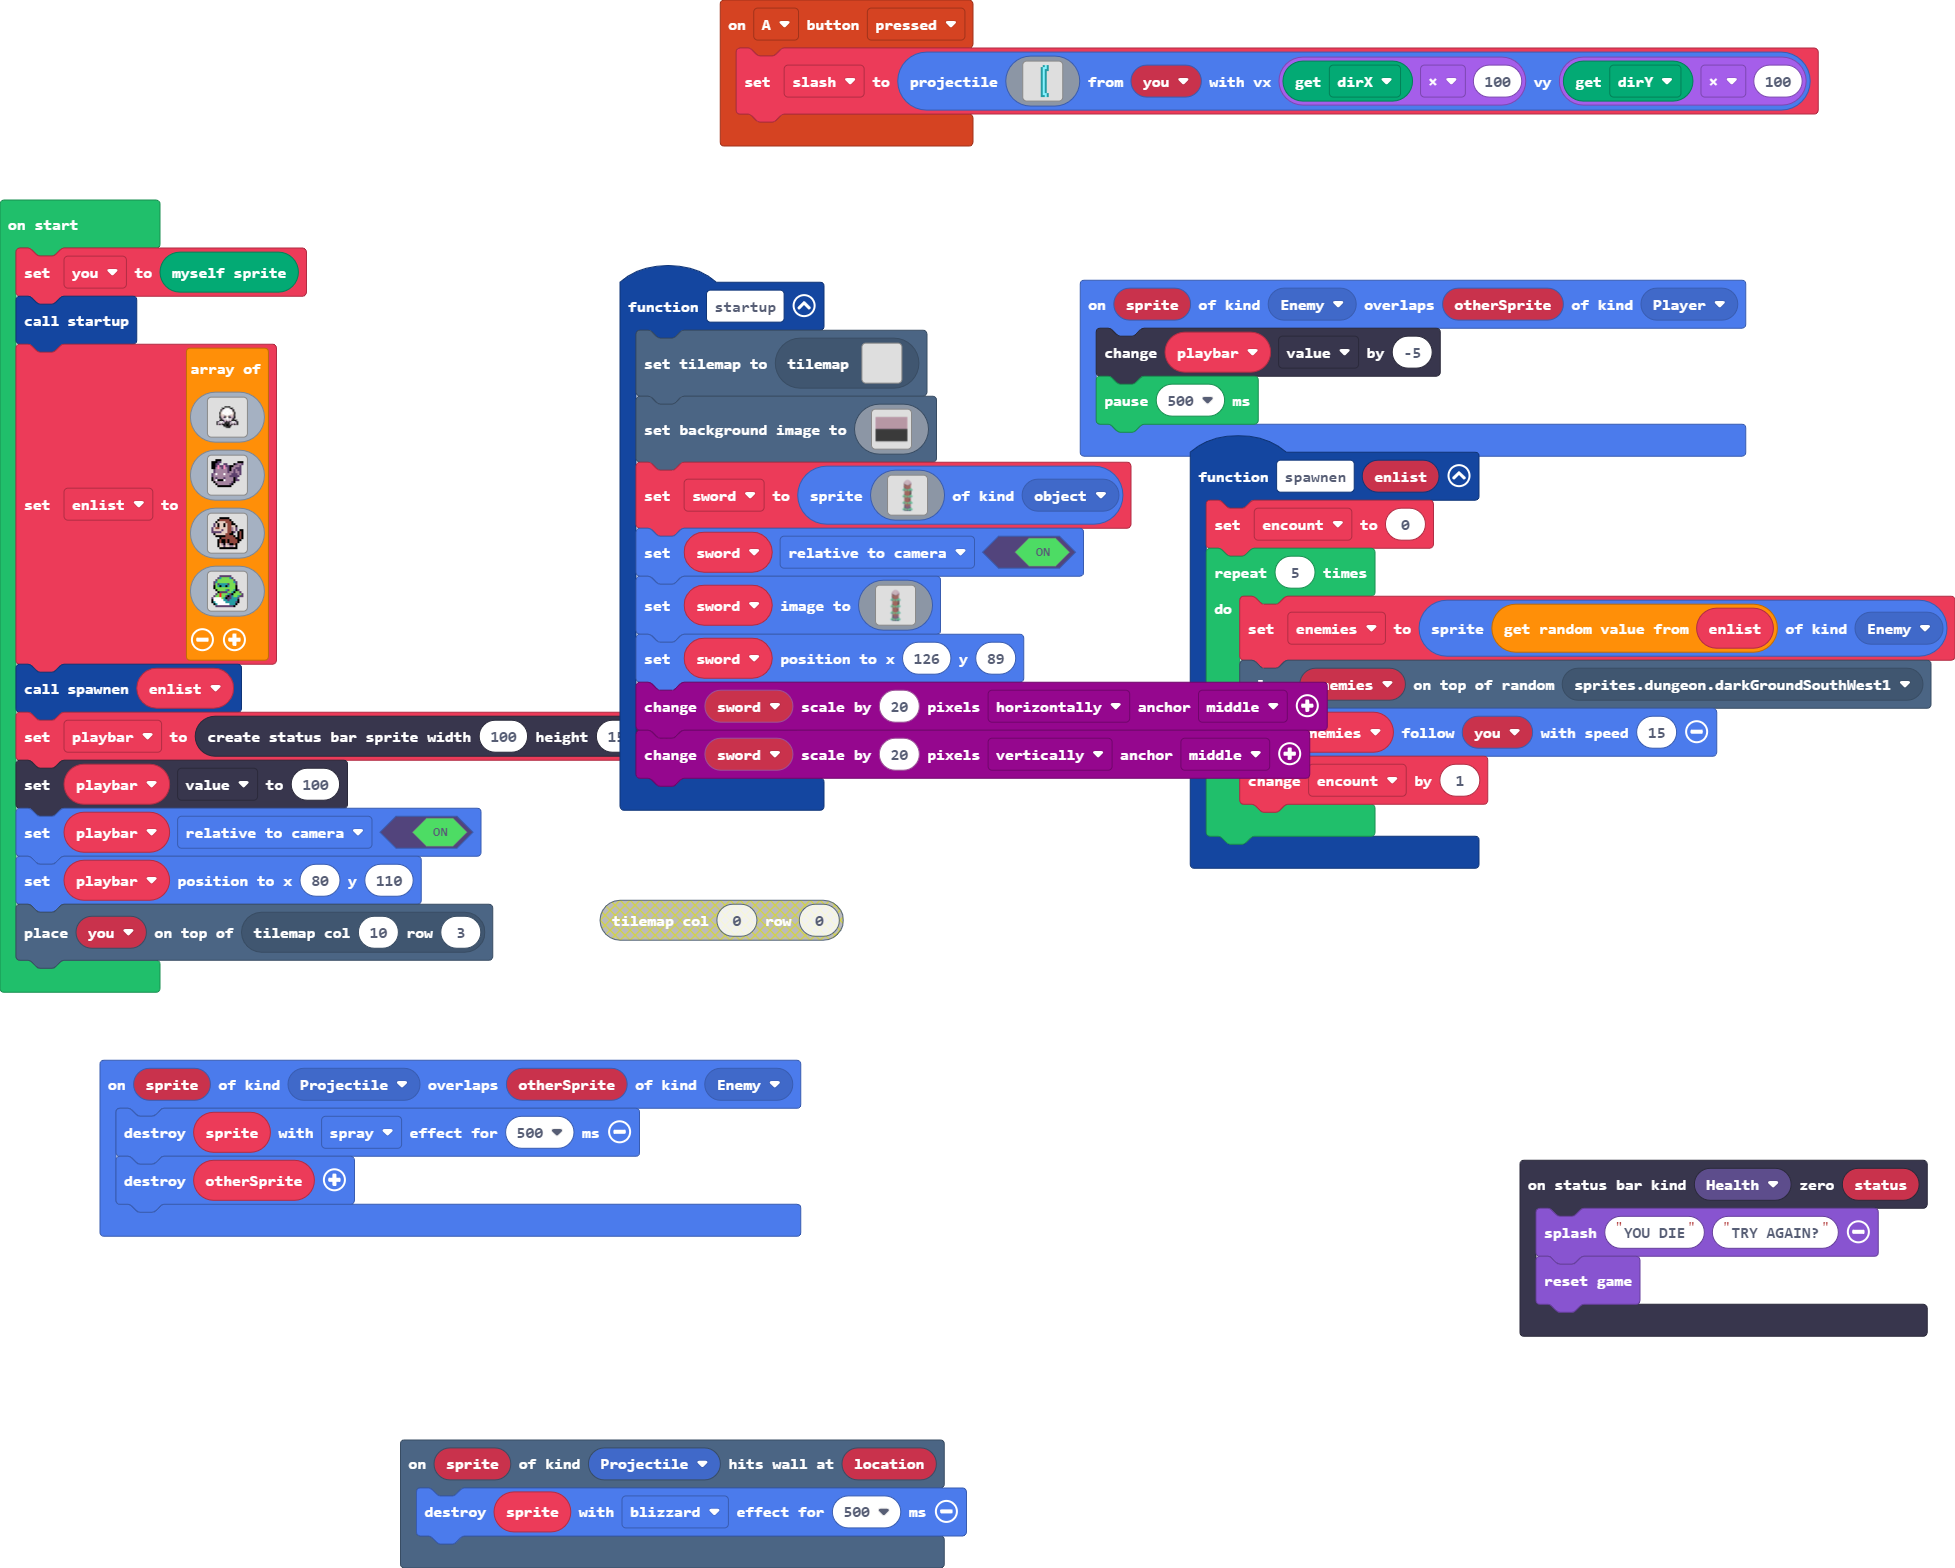
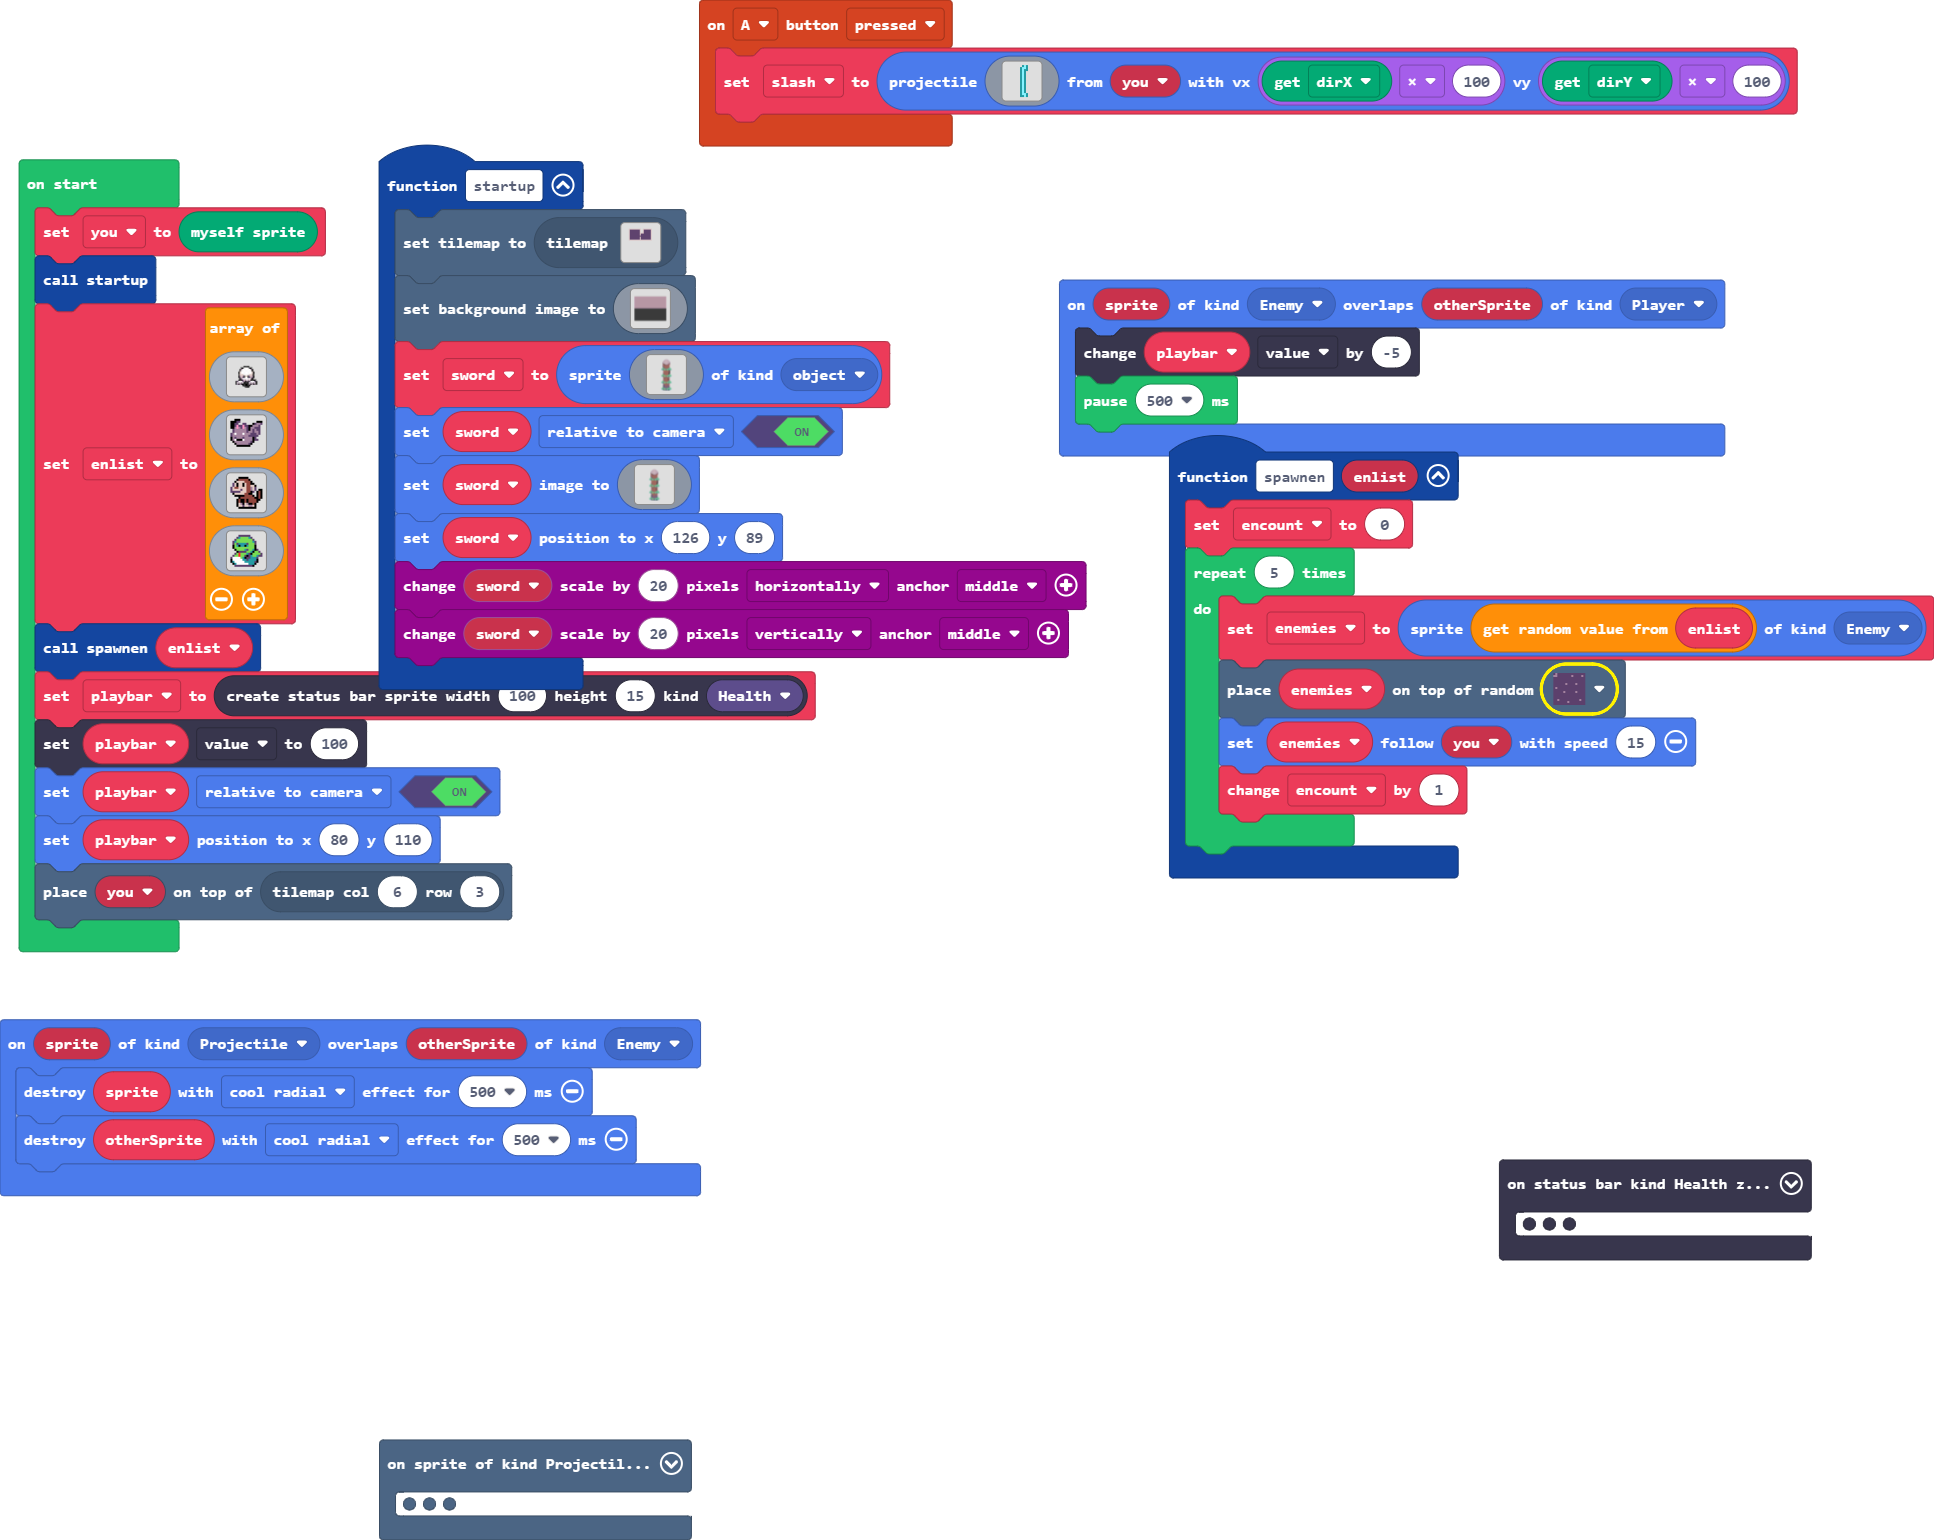
changed map, enemies can now be killed

diff --git a/tilemap.g.ts b/tilemap.g.ts
@@ -83,6 +83,60 @@ namespace myTiles {
 . . . . . . . . . . . . . . . . 
 . . . . . . . . . . . . . . . . 
 `, [], -Infinity);
+            case "level5":
+            case "level5":return tiles.createTilemap(hex`2000200000000000000000000000000000000000000000000000000000000000000000000000000000000000000000000000000000000000000000000000000000000000000000000101010101010101010101010000010101010101010101000000000000000000010202020202020202020201000001020202020202020100000000000000000001020202020202020202020100000102020202020202010000000000000000000102020202020202020202010000010202020202020201000000000000000000010202020202020202020201010101020202020202020100000000000000000001020202020202020202020102020202020202020202010000000000000000000102020202020202020202010202020202020202020201000000000000000000010202020202020202020202020202020202020202020100000000000000000001020202020202020202020102020202020202020202010000000000000000000102020202020202020202010202020202020202020201000000000000000000010202020202020202020201020202020202020202020100000000000000000001010101010101010101010101010101010101010101010000000000000000000000000000000000000000000000000000000000000000000000000000000000000000000000000000000000000000000000000000000000000000000000000000000000000000000000000000000000000000000000000000000000000000000000000000000000000000000000000000000000000000000000000000000000000000000000000000000000000000000000000000000000000000000000000000000000000000000000000000000000000000000000000000000000000000000000000000000000000000000000000000000000000000000000000000000000000000000000000000000000000000000000000000000000000000000000000000000000000000000000000000000000000000000000000000000000000000000000000000000000000000000000000000000000000000000000000000000000000000000000000000000000000000000000000000000000000000000000000000000000000000000000000000000000000000000000000000000000000000000000000000000000000000000000000000000000000000000000000000000000000000000000000000000000000000000000000000000000000000000000000000000000000000000000000000000000000000000000000000000000000000000000000000000000000000000000000000000000000000000000000000000000000000000000000000000000000000000000000000000000000000000000000000000000000000000000000000000000000000000000000000000000`, img`
+................................
+................................
+....222222222222..222222222.....
+....2..........2..2.......2.....
+....2..........2..2.......2.....
+....2..........2..2.......2.....
+....2..........2222.......2.....
+....2..........2..........2.....
+....2..........2..........2.....
+....2.....................2.....
+....2..........2..........2.....
+....2..........2..........2.....
+....2..........2..........2.....
+....22222222222222222222222.....
+................................
+................................
+................................
+................................
+................................
+................................
+................................
+................................
+................................
+................................
+................................
+................................
+................................
+................................
+................................
+................................
+................................
+................................
+`, [myTiles.transparency16,sprites.dungeon.floorLight0,sprites.dungeon.darkGroundSouthEast1], TileScale.Sixteen);
+            case "level6":
+            case "level6":return tiles.createTilemap(hex`1000100000000000000000000000000000000000000000000000000000000000000000000000000000000000000000000000000000000000000000000000000000000000000000000000000000000000000000000000000000000000000000000000000000000000000000000000000000000000000000000000000000000000000000000000000000000000000000000000000000000000000000000000000000000000000000000000000000000000000000000000000000000000000000000000000000000000000000000000000000000000000000000000000000000000000000000000000000000000000000000000000000000000000000000000000000000000`, img`
+. . . . . . . . . . . . . . . . 
+. . . . . . . . . . . . . . . . 
+. . . . . . . . . . . . . . . . 
+. . . . . . . . . . . . . . . . 
+. . . . . . . . . . . . . . . . 
+. . . . . . . . . . . . . . . . 
+. . . . . . . . . . . . . . . . 
+. . . . . . . . . . . . . . . . 
+. . . . . . . . . . . . . . . . 
+. . . . . . . . . . . . . . . . 
+. . . . . . . . . . . . . . . . 
+. . . . . . . . . . . . . . . . 
+. . . . . . . . . . . . . . . . 
+. . . . . . . . . . . . . . . . 
+. . . . . . . . . . . . . . . . 
+. . . . . . . . . . . . . . . . 
+`, [myTiles.transparency16], TileScale.Sixteen);
         }
         return null;
     })

diff --git a/main.ts b/main.ts
@@ -22,7 +22,7 @@ controller.A.onEvent(ControllerButtonEvent.Pressed, function () {
         `, you, Render.getAttribute(Render.attribute.dirX) * 100, Render.getAttribute(Render.attribute.dirY) * 100)
 })
 function startup () {
-    tiles.setCurrentTilemap(tilemap`level2`)
+    tiles.setCurrentTilemap(tilemap`level5`)
     scene.setBackgroundImage(img`
         bbbbbbbbbbbbbbbbbbbbbbbbbbbbbbbbbbbbbbbbbbbbbbbbbbbbbbbbbbbbbbbbbbbbbbbbbbbbbbbbbbbbbbbbbbbbbbbbbbbbbbbbbbbbbbbbbbbbbbbbbbbbbbbbbbbbbbbbbbbbbbbbbbbbbbbbbbbbbbbb
         bbbbbbbbbbbbbbbbbbbbbbbbbbbbbbbbbbbbbbbbbbbbbbbbbbbbbbbbbbbbbbbbbbbbbbbbbbbbbbbbbbbbbbbbbbbbbbbbbbbbbbbbbbbbbbbbbbbbbbbbbbbbbbbbbbbbbbbbbbbbbbbbbbbbbbbbbbbbbbbb
@@ -290,21 +290,21 @@ sprites.onOverlap(SpriteKind.Enemy, SpriteKind.Player, function (sprite, otherSp
     playbar.value += -5
     pause(500)
 })
+scene.onHitWall(SpriteKind.Projectile, function (sprite, location) {
+    sprites.destroy(sprite, effects.blizzard, 500)
+})
 function spawnen (enlist: Image[]) {
     encount = 0
     for (let index = 0; index < 5; index++) {
         enemies = sprites.create(enlist._pickRandom(), SpriteKind.Enemy)
-        tiles.placeOnRandomTile(enemies, sprites.dungeon.darkGroundSouthWest1)
+        tiles.placeOnRandomTile(enemies, sprites.dungeon.darkGroundSouthEast1)
         enemies.follow(you, 15)
         encount += 1
     }
 }
-scene.onHitWall(SpriteKind.Projectile, function (sprite, location) {
-    sprites.destroy(sprite, effects.blizzard, 500)
-})
 sprites.onOverlap(SpriteKind.Projectile, SpriteKind.Enemy, function (sprite, otherSprite) {
-    sprites.destroy(sprite, effects.spray, 500)
-    sprites.destroy(otherSprite)
+    sprites.destroy(sprite, effects.coolRadial, 500)
+    sprites.destroy(otherSprite, effects.coolRadial, 500)
 })
 let enemies: Sprite = null
 let encount = 0
@@ -401,4 +401,4 @@ playbar = statusbars.create(100, 15, StatusBarKind.Health)
 playbar.value = 100
 playbar.setFlag(SpriteFlag.RelativeToCamera, true)
 playbar.setPosition(80, 110)
-tiles.placeOnTile(you, tiles.getTileLocation(10, 3))
+tiles.placeOnTile(you, tiles.getTileLocation(6, 3))
